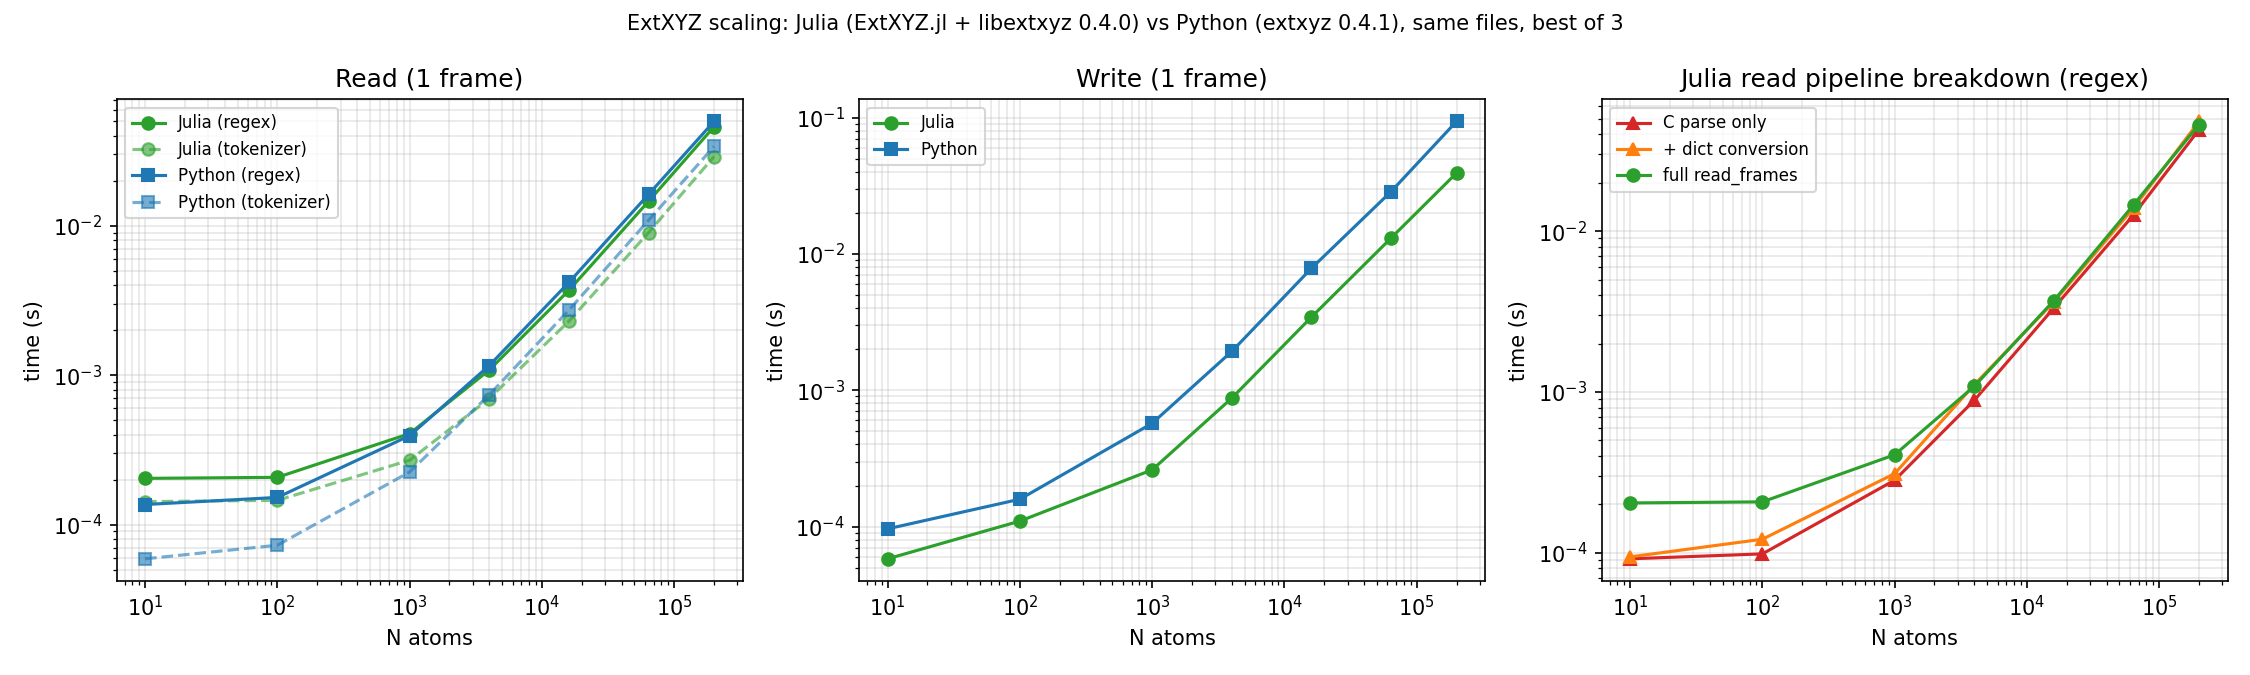
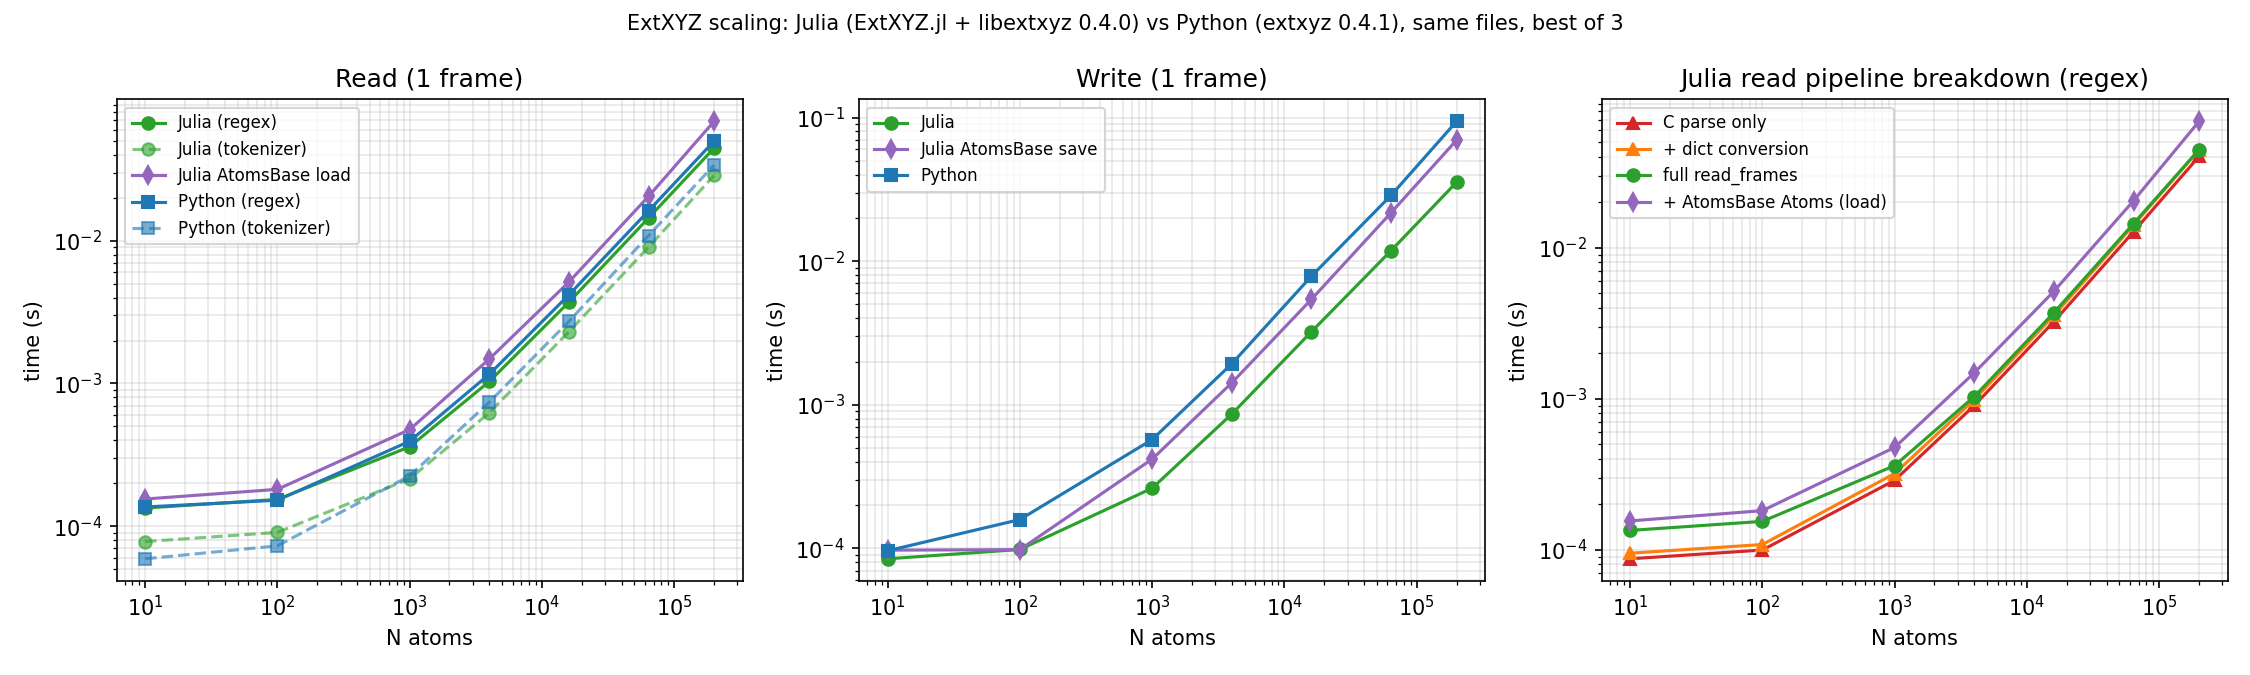
Add AtomsBase load/save to scaling benchmark and plot

diff --git a/benchmark/plot_scaling.py b/benchmark/plot_scaling.py
@@ -1,0 +1,66 @@
+import csv
+import matplotlib
+matplotlib.use("Agg")
+import matplotlib.pyplot as plt
+
+
+def load(path):
+    with open(path) as f:
+        rows = [r for r in csv.DictReader(f)]
+    return {k: [float(r[k]) for r in rows] for k in rows[0]}
+
+
+jl = load("/tmp/bench_julia_clean.csv")
+py = load("/tmp/bench_python.csv")
+n = jl["natoms"]
+
+fig, axes = plt.subplots(1, 3, figsize=(15, 4.5))
+
+ax = axes[0]
+ax.loglog(n, jl["read_regex_s"], "o-", color="C2", label="Julia (regex)")
+ax.loglog(n, jl["read_tok_s"], "o--", color="C2", alpha=0.6, label="Julia (tokenizer)")
+ax.loglog(n, jl["load_s"], "d-", color="C4", label="Julia AtomsBase load")
+ax.loglog(n, py["read_regex_s"], "s-", color="C0", label="Python (regex)")
+ax.loglog(n, py["read_tok_s"], "s--", color="C0", alpha=0.6, label="Python (tokenizer)")
+ax.set_title("Read (1 frame)")
+ax.set_xlabel("N atoms")
+ax.set_ylabel("time (s)")
+ax.legend(fontsize=8)
+ax.grid(True, which="both", alpha=0.3)
+
+ax = axes[1]
+ax.loglog(n, jl["write_s"], "o-", color="C2", label="Julia")
+ax.loglog(n, jl["save_s"], "d-", color="C4", label="Julia AtomsBase save")
+ax.loglog(n, py["write_s"], "s-", color="C0", label="Python")
+ax.set_title("Write (1 frame)")
+ax.set_xlabel("N atoms")
+ax.set_ylabel("time (s)")
+ax.legend(fontsize=8)
+ax.grid(True, which="both", alpha=0.3)
+
+ax = axes[2]
+ax.loglog(n, jl["c_parse_s"], "^-", color="C3", label="C parse only")
+ax.loglog(n, jl["dicts_s"], "^-", color="C1", label="+ dict conversion")
+ax.loglog(n, jl["read_regex_s"], "o-", color="C2", label="full read_frames")
+ax.loglog(n, jl["load_s"], "d-", color="C4", label="+ AtomsBase Atoms (load)")
+ax.set_title("Julia read pipeline breakdown (regex)")
+ax.set_xlabel("N atoms")
+ax.set_ylabel("time (s)")
+ax.legend(fontsize=8)
+ax.grid(True, which="both", alpha=0.3)
+
+fig.suptitle("ExtXYZ scaling: Julia (ExtXYZ.jl + libextxyz 0.4.0) vs Python (extxyz 0.4.1), same files, best of 3",
+             fontsize=10)
+fig.tight_layout()
+out = "/Users/u1470235/.julia/dev/ExtXYZ/benchmark/scaling_julia_vs_python.png"
+fig.savefig(out, dpi=150)
+print(out)
+
+# console summary at largest size
+i = len(n) - 1
+print(f"at N={int(n[i])}: read Jl/Py = {jl['read_regex_s'][i]/py['read_regex_s'][i]:.2f}, "
+      f"tok Jl/Py = {jl['read_tok_s'][i]/py['read_tok_s'][i]:.2f}, "
+      f"write Jl/Py = {jl['write_s'][i]/py['write_s'][i]:.2f}")
+print(f"Julia overheads at N={int(n[i])}: convert = "
+      f"{(jl['dicts_s'][i]-jl['c_parse_s'][i])/jl['dicts_s'][i]*100:.0f}% of dict read, "
+      f"high-level+Channel = {(jl['read_regex_s'][i]-jl['dicts_s'][i])*1000:.1f} ms")
